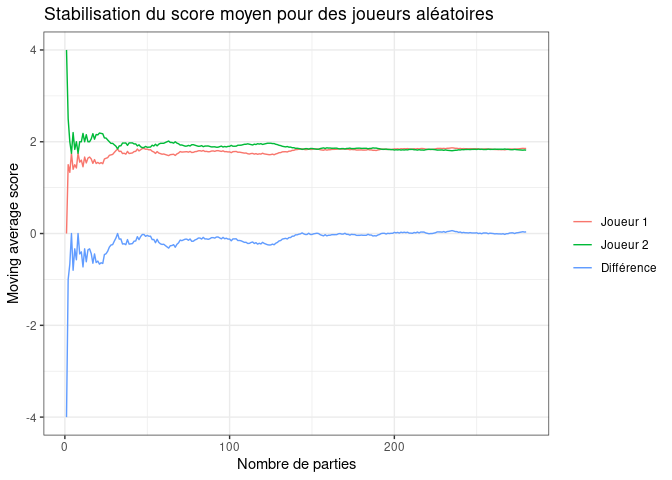
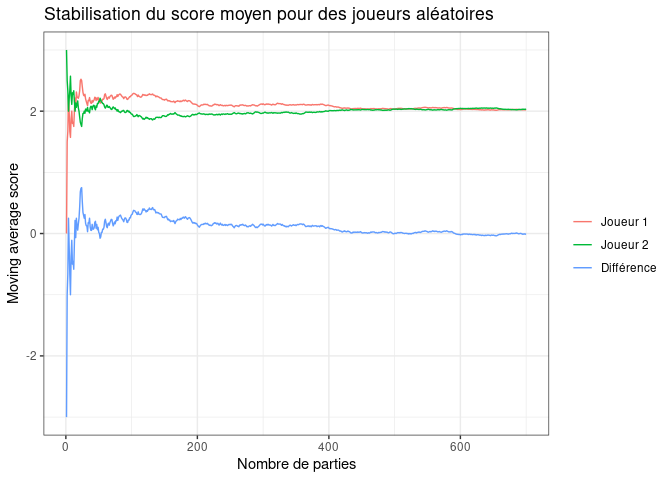
corrected decision

diff --git a/idees_de_developpement.md b/idees_de_developpement.md
@@ -8,6 +8,10 @@
 -   [Idées pour l’apprentissage](#idées-pour-lapprentissage)
     -   [Apprentissage des règles](#apprentissage-des-règles)
 -   [Distribution des scores](#distribution-des-scores)
+-   [Performance de joueurs](#performance-de-joueurs)
+    -   [Joueur aléatoire: le deuxième joueur est un peu
+        avantagé](#joueur-aléatoire-le-deuxième-joueur-est-un-peu-avantagé)
+    -   [](#section)
 -   [Si jamais on voulait optimiser encore plus la fonction Décision
     Possible Rapide
     (TakeableCardsOnBoardOptimized)](#si-jamais-on-voulait-optimiser-encore-plus-la-fonction-décision-possible-rapide-takeablecardsonboardoptimized)
@@ -45,8 +49,8 @@ sur un scénario réalise en utilisant:
     ## Unit: milliseconds
     ##                                                                               expr
     ##  RunGame(seed = 1, starting_player = 1, DecisionFunction = ScopAI:::DummyDecision)
-    ##       min       lq    mean   median       uq      max neval
-    ##  1.397774 1.598101 1.86987 1.729464 1.936592 4.894424   100
+    ##       min       lq     mean   median       uq      max neval
+    ##  3.688212 4.026866 4.670242 4.342771 4.669327 10.29162   100
 
 Tant que deux fonctions de décision prennent les mêmes décisions elles
 seront évaluées sur la même série de cartes.
@@ -95,19 +99,24 @@ Il serait utile d’étudier au moins par une simulation la distribution
 des scores pour différentes stratégies, afin de juger de la variabilité
 et de la difficulté d’optimiser des décisions en milieu aléatoire
 
-    Compute1Score = function(starting_player = 1, DecisionFunction = ScopAI:::DummyDecision){
+    Compute1Score = function(starting_player = 1, DecisionFunction = ScopAI:::RandomDecision){
       g = RunGame(starting_player = starting_player, DecisionFunction = DecisionFunction)
       tibble(starting_player = starting_player, score_player_1 = g$score_player1, score_player_2 = g$score_player2)
     }
-    ComputeScores = function(seed = 1, DecisionFunction = ScopAI:::DummyDecision, ngames = 7*3, nprocs = 7){
+    ComputeScores = function(seed = 1, DecisionFunction = ScopAI:::RandomDecision, ngames = 7*3, nprocs = 7){
       set.seed(seed = seed, kind = "L'Ecuyer-CMRG")
-      # mclapply(X = 1:ngames, FUN = function(x) Compute1Score(starting_player = starting_player, DecisionFunction = DecisionFunction), mc.set.seed = T, mc.preschedule = T, mc.cores = nprocs, SIMPLIFY = F) %>%
-      # bind_rows()
-        lapply(X = 1:ngames, FUN = function(x) bind_rows(Compute1Score(starting_player = 1, DecisionFunction = DecisionFunction), Compute1Score(starting_player = 2, DecisionFunction = DecisionFunction))) %>%
-        bind_rows()
+      mclapply(X = 1:ngames,
+               FUN = function(x) bind_rows(Compute1Score(starting_player = 1, DecisionFunction = DecisionFunction), Compute1Score(starting_player = 2, DecisionFunction = DecisionFunction)),
+               mc.set.seed = T,
+               mc.preschedule = T,
+               mc.cores = nprocs) %>%
+      bind_rows()
+        # lapply(X = 1:ngames,
+        #        FUN = function(x) bind_rows(Compute1Score(starting_player = 1, DecisionFunction = DecisionFunction), Compute1Score(starting_player = 2, DecisionFunction = DecisionFunction))) %>%
+        # bind_rows()
     }
 
-    res = ComputeScores(ngames = 7*20, seed = 2) %>% 
+    res = ComputeScores(ngames = 7*50, seed = 1) %>% 
       mutate(score_diff = score_player_1-score_player_2) %>% 
       mutate(moving_average_score_1 = cummean(score_player_1),
              moving_average_score_2 = cummean(score_player_2),
@@ -129,10 +138,13 @@ et de la difficulté d’optimiser des décisions en milieu aléatoire
 On dirait qu’il faut 150-200 parties pour que les estimateurs de score
 se stabilisent.
 
-======= &gt;&gt;&gt;&gt;&gt;&gt;&gt;
-bf7f6f62ea8543d98e2acdd31b2c1a975d62daf0
+Performance de joueurs
+======================
 
-    res2 = res %>% 
+Joueur aléatoire: le deuxième joueur est un peu avantagé
+--------------------------------------------------------
+
+    res2 = ComputeScores(ngames = 7*50, seed = 1) %>% 
       mutate(score_premier_joueur = ifelse(starting_player == 1, yes = score_player_1, no = score_player_2),
              score_deuxieme_joueur = ifelse(starting_player == 2, yes = score_player_1, no = score_player_2))  %>% 
       mutate(score_diff = score_premier_joueur-score_deuxieme_joueur) %>% 
@@ -148,12 +160,12 @@ bf7f6f62ea8543d98e2acdd31b2c1a975d62daf0
       geom_line() +
       ylab("Moving average score") +
       xlab("Nombre de parties") + 
-      scale_colour_discrete(name ='', labels = c("Premier joueur", "Deuxième joueur", "Différence")) + 
+      scale_colour_discrete(name ='', labels = c("Deuxième joueur", "Différence", "Premier joueur")) + 
       ggtitle("Stabilisation du score moyen pour des joueurs aléatoires")
 
 ![](idees_de_developpement_files/figure-markdown_strict/unnamed-chunk-8-1.png)
 
-Le premier joueur semble avantagé !
+Le deuxième joueur semble avantagé !
 
 Si jamais on voulait optimiser encore plus la fonction Décision Possible Rapide (TakeableCardsOnBoardOptimized)
 ===============================================================================================================
